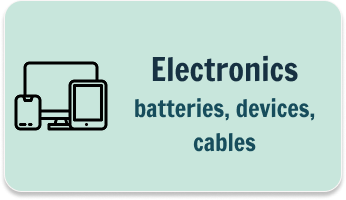
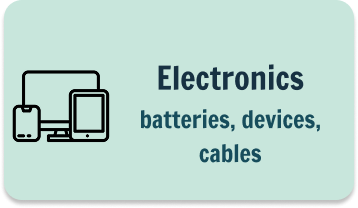
Add files via upload

diff --git a/EcoHelper_Design.py b/EcoHelper_Design.py
@@ -1,87 +1,107 @@
 # -*- coding: utf-8 -*-
 """
-Spyder Editor
+HackED 2026 - EcoHelper
 
-This is a temporary script file.
 """
 
 import tkinter as tk
 
-class EcoHelper: 
-    
-    def __init__(self, page) :
-        self.page = page
-        self.page.title("EcoHelper")
-        self.page.geometry("393x852")
-        self.page.configure(bg="#236476")
-        
-        self.current_face = None
-    
-        self.splashPage()
-    
-    def splashPage(self) :
-        if self.current_face is not None :
-            self.current_face.destroy()
-            
-        self.current_face = tk.Frame(self.page)
-        self.current_face.pack(expand = True)
-            
-        #SplashPage
-        self.imgWelcomePage = tk.PhotoImage(file = "welcomeScreen.png")
-        self.btnWelcomePage = tk.Button(self.current_face, image = self.imgWelcomePage, bg ="#236476",
-                                        relief = "flat", bd = 0, highlightthickness= 0, borderwidth= 0,
-                                        activebackground= "#236476", command = self.recyclingType)
-        self.btnWelcomePage.pack(pady = 5)
-        
+TITLE = ("Lexend", 35, "bold")
 
-    def recyclingType(self) : 
-        
-        if self.current_face is not None :
-            self.current_face.destroy()
-            
-        self.current_face = tk.Frame(self.page, bg="#236476")
-        self.current_face.pack(expand = True)
+class tkinterApp(tk.Tk):
 
-        #Select Type of Recycling
+    def __init__(self, *args, **kwargs): 
+        
+        tk.Tk.__init__(self, *args, **kwargs)
+        
+        self.title("EcoHelper")
+        self.geometry("393x852")
+        self.configure(bg="#236476")
+        
+        container = tk.Frame(self)  
+        container.pack(side = "top", fill = "both", expand = True) 
+ 
+        container.grid_rowconfigure(0, weight = 1)
+        container.grid_columnconfigure(0, weight = 1)
+ 
+        self.frames = {}  
+ 
+        for F in (SplashPage, RecyclingType, Scan):
+ 
+            frame = F(container, self)
+ 
+            # initializing frame of that object from
+            self.frames[F] = frame 
+ 
+            frame.grid(row = 0, column = 0, sticky ="nsew")
+ 
+        self.show_frame(SplashPage)
+ 
+    def show_frame(self, cont):
+        frame = self.frames[cont]
+        frame.tkraise()
+
+class SplashPage(tk.Frame):
+    
+    def __init__(self, parent, controller): 
+        
+        tk.Frame.__init__(self, parent, bg="#236476")        
+        
+        self.lblTitle = tk.PhotoImage(file="EcoHelperTitle.png")
+        title = tk.Label(self, image=self.lblTitle, bg="#236476", fg="#FFF")
+        title.pack(expand=True)
+        
+        self.after(1500, lambda: controller.show_frame(RecyclingType))
+
+class RecyclingType(tk.Frame):
+    
+    def __init__(self, parent, controller): 
+        
+        tk.Frame.__init__(self, parent, bg="#236476")
+        self.columnconfigure(0, weight=1)
+        self.rowconfigure((0, 3), weight=1)
+        
+        self.promptRecycling = tk.PhotoImage(file="PromptRecycling.png")
+        lblRecycling = tk.Label(self, image=self.promptRecycling, bg="#236476", fg="#FFF")
+        lblRecycling.grid(row=0, column=0, sticky="n")
+        
         self.imgHouseholdItems = tk.PhotoImage(file = "btnHousehold.png")
-        self.btnHouseholdItems = tk.Button(self.current_face, image = self.imgHouseholdItems, bg="#236476", 
-                              relief="flat", bd = 0, highlightthickness = 0, 
-                              borderwidth = 0, activebackground="#236476", command = self.scan)
+        btnHouseholdItems = tk.Button(self, image=self.imgHouseholdItems, bg="#236476", relief="flat", 
+                                      bd=0, highlightthickness=0, activebackground="#236476", 
+                                      command = lambda: controller.show_frame(Scan))
+        btnHouseholdItems.grid(row=1, column=0, padx=10, pady=10)
+        
         self.imgElectronics = tk.PhotoImage(file = "btnElectronics.png")
-        self.btnElectronics = tk.Button(self.current_face, image = self.imgElectronics, bg = "#236476",
-                              relief="flat", bd = 0, highlightthickness = 0, activebackground="#236476",
-                              command = self.scan)
-        
-        self.btnHouseholdItems.pack(pady = 5)
-        self.btnElectronics.pack(pady = 5)
+        btnElectronics = tk.Button(self, image=self.imgElectronics, bg="#236476", relief="flat", 
+                                   bd=0, highlightthickness=0, activebackground="#236476",
+                                   command = lambda: controller.show_frame(Scan))
+        btnElectronics.grid(row=2, column=0, padx=10, pady=10)
 
-        #if btnHouseholdItems.click() :
-            #buttonClicked = 'Household'
-        #else :
-            #buttonClicked = 'Electronics'
+class Scan(tk.Frame):
     
-    def scan(self) :
+    def __init__(self, parent, controller):
         
-        if self.current_face is not None :
-            self.current_face.destroy()
-            
-        self.current_face = tk.Frame(self.page, bg="#236476")
-        self.current_face.pack(expand = True)
+        tk.Frame.__init__(self, parent, bg="#236476")
+        self.columnconfigure(0, weight=1)
+        self.rowconfigure((0, 3), weight=1)
         
-        self.imgBackArrow = tk.PhotoImage(file = "btnBackArrowButton.png")
-        self.btnBackArrow = tk.Button(self.current_face, image = self.imgBackArrow, bg = "#236476",
-                                      relief = "flat", bd = 0, highlightthickness = 0, activebackground = "#236476",
-                                      command = self.recyclingType)
-        self.imgScan = tk.PhotoImage(file = "btnScanButton.png")
-        self.btnScan = tk.Button(self.current_face, image=self.imgScan, bg="#236476", 
-                                  relief="flat", bd=0, highlightthickness=0, activebackground="#236476")
-       
-        self.btnBackArrow.pack(pady = 5)
-        self.btnScan.pack(pady = 5)
+        self.imgBack = tk.PhotoImage(file = "btnBack.png")
+        btnBack = tk.Button(self, image=self.imgBack, bg="#236476", relief="flat", 
+                            bd=0, highlightthickness=0, activebackground="#236476", 
+                            command = lambda: controller.show_frame(RecyclingType))
+        btnBack.grid(row=0, column=0, sticky="nw", padx=10, pady=10)
+        
+        self.imgScan = tk.PhotoImage(file = "btnScan.png")
+        btnScan = tk.Button(self, image=self.imgScan, bg="#236476", relief="flat", 
+                            bd=0, highlightthickness=0, activebackground="#236476")
+        btnScan.grid(row=3, column=0, padx=10, pady=10)
+        
+class DataPage(tk.Frame):
     
-page = tk.Tk()
-ecoHelper = EcoHelper(page)
-page.mainloop()
+    def __init__(self, parent, controller):
+        
+        tk.Frame.__init__(self, parent, bg="#236476")
+        
 
-    
-
+app = tkinterApp()
+app.mainloop()
